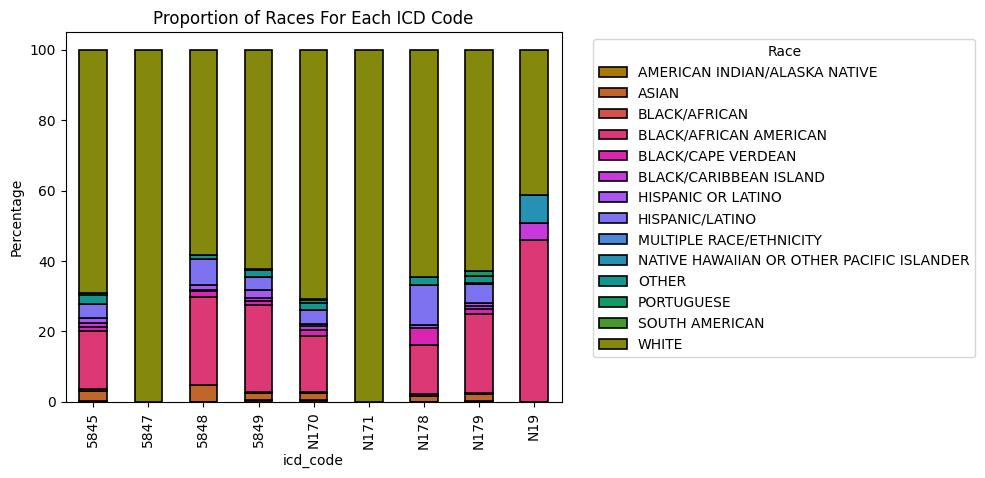
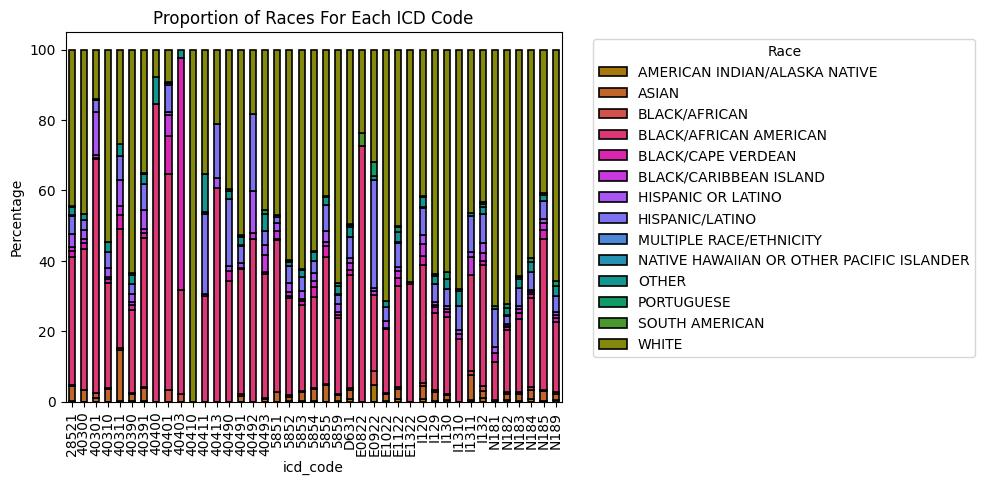
na

diff --git a/pkgs/data.py b/pkgs/data.py
@@ -1,9 +1,9 @@
 import pandas as pd
 from commons import (
-    diagnose_icd_file_path, patients_file_path, get_esrd_codes,
+    diagnose_icd_file_path, patients_file_path,
     figs_path, figs_path_gender_statistics, figs_path_age_statistics,
-    age_bins, figs_path_race_statistics, figs_path_race_stats, figs_path_icd_stats, get_target_esrd_codes,
-    get_target_ckd_codes, admissions_file_path
+    age_bins, figs_path_race_statistics, figs_path_race_stats, figs_path_icd_stats, esrd_codes,
+    ckd_codes, admissions_file_path
 )
 import matplotlib.pyplot as plt
 import os
@@ -11,6 +11,15 @@ import cmocean
 
 def analyze_esrd():
     patients_df, diagnoses_df = get_esrd_patients_and_diagnoses()
+    plot_icd_codes(diagnoses_df)
+
+    age_statistics(patients_df, diagnoses_df)
+    gender_statistics(patients_df, diagnoses_df)
+    race_statistics(patients_df, diagnoses_df)
+
+
+def analyze_ckd():
+    patients_df, diagnoses_df = get_ckd_patients_and_diagnoses()
     plot_icd_codes(diagnoses_df)
 
     age_statistics(patients_df, diagnoses_df)
@@ -147,8 +156,8 @@ def race_statistics(patients_df, diagnoses_df):
 def get_esrd_patients_and_diagnoses():
     diagnoses_df = pd.read_csv(diagnose_icd_file_path)
 
-    esrd_diagnose_df = filter_ckd_esrd_diagnose(diagnoses_df)
-    esrd_diagnose_df = esrd_diagnose_df[esrd_diagnose_df['icd_code'].isin(get_esrd_codes())]
+    esrd_diagnose_df = filter_diagnoses_for_patients_with_both_icd_codes(diagnoses_df, esrd_codes, ckd_codes)
+    esrd_diagnose_df = esrd_diagnose_df[esrd_diagnose_df['icd_code'].isin(esrd_codes)]
     print(
         f"number of ESRD subjects: {esrd_diagnose_df['subject_id'].nunique()}\n"
         f"percentage of subjects in dataset: {esrd_diagnose_df['subject_id'].nunique() / diagnoses_df['subject_id'].nunique() * 100:.3f}"
@@ -162,12 +171,33 @@ def get_esrd_patients_and_diagnoses():
     return patients_df, esrd_diagnose_df
 
 
-def filter_ckd_esrd_diagnose(df):
-    subject_ids = df.groupby('subject_id').filter(lambda x: any(x['icd_code'].isin(get_target_esrd_codes())) and any(x['icd_code'].isin(get_target_ckd_codes())))[
-        'subject_id'].unique()
-    print(f"number of patients who have esrd (progressed from ckd) are {len(subject_ids)}")
+def get_ckd_patients_and_diagnoses():
+    diagnoses_df = pd.read_csv(diagnose_icd_file_path)
+
+    ckd_diagnose_df = diagnoses_df[diagnoses_df['icd_code'].isin(ckd_codes)]
+    print(
+        f"number of CKD subjects: {ckd_diagnose_df['subject_id'].nunique()}\n"
+        f"percentage of subjects in dataset: {ckd_diagnose_df['subject_id'].nunique() / diagnoses_df['subject_id'].nunique() * 100:.3f}"
+    )
+
+    patients_df = pd.read_csv(patients_file_path)
+    patients_df = patients_df[patients_df['subject_id'].isin(ckd_diagnose_df['subject_id'].unique())]
+
+    print(f"number of subjects (for validation): {patients_df['subject_id'].nunique()}")
+
+    return patients_df, ckd_diagnose_df
+
+
+# filter records for subjects for which there are records with 'icd_code' in arr_1 and arr_2
+def filter_diagnoses_for_patients_with_both_icd_codes(df, arr_1, arr_2):
+    subject_ids = df.groupby('subject_id').filter(
+        lambda x:
+        any(x['icd_code'].isin(arr_1)) and
+        any(x['icd_code'].isin(arr_2))
+    )['subject_id'].unique()
     return df[df['subject_id'].isin(subject_ids)]
 
 
 if __name__ == '__main__':
     analyze_esrd()
+    analyze_ckd()

diff --git a/pkgs/commons.py b/pkgs/commons.py
@@ -16,11 +16,6 @@ admissions_file_path = f"{project_dir()}/data/mimic-iv-2.2/hosp/admissions.csv"
 
 
 # Codes extracted from d_icd_diagnoses.csv
-def get_esrd_codes():
-    return (icd_9_esrd_code_g1 + icd_9_esrd_code_g2 + icd_9_esrd_code_g3 +
-            icd_10_esrd_code_g1 + icd_10_esrd_code_g2 + icd_10_esrd_code_g3)
-
-
 icd_10_esrd_code_g1 = ['N17', 'N170', 'N171', 'N172', 'N178', 'N179']  # Desc: Acute kidney failure with ...
 icd_10_esrd_code_g2 = ['N19']  # Desc: Unspecified kidney failure ...
 icd_10_esrd_code_g3 = ['0904']  # Desc: Postpartum acute kidney failure
@@ -30,9 +25,7 @@ icd_9_esrd_code_g2 = ['6393']  # Desc: Kidney failure following abortion and ect
 icd_9_esrd_code_g3 = ['66930', '66932', '66934']  # Desc: Acute kidney failure following labor and delivery ...
 
 
-def get_target_esrd_codes():
-    return icd_10_esrd_code_g1 + icd_10_esrd_code_g2 + icd_9_esrd_code_g1
-
+esrd_codes = icd_10_esrd_code_g1 + icd_10_esrd_code_g2 + icd_9_esrd_code_g1
 
 icd_9_ckd_codes_g1 = ['28521']  # Anemia in chronic kidney disease
 icd_9_ckd_codes_g2 = ['40300', '40301', '40310', '40311', '40390', '40391']  # Hypertensive chronic kidney disease ...
@@ -48,9 +41,7 @@ icd_10_ckd_codes_g3 = ['I12', 'I120', 'I129', 'I13', 'I130', 'I131', 'I1310', 'I
 icd_10_ckd_codes_g4 = ['N18', 'N181', 'N182', 'N183', 'N184', 'N185', 'N189']  # Chronic kidney disease
 
 
-def get_target_ckd_codes():
-    return (icd_9_ckd_codes_g1 + icd_9_ckd_codes_g2 + icd_9_ckd_codes_g3 + icd_9_ckd_codes_g4
-            + icd_10_ckd_codes_g1 + icd_10_ckd_codes_g2 + icd_10_ckd_codes_g3 + icd_10_ckd_codes_g4)
+ckd_codes = (icd_9_ckd_codes_g1 + icd_9_ckd_codes_g2 + icd_9_ckd_codes_g3 + icd_9_ckd_codes_g4 + icd_10_ckd_codes_g1 + icd_10_ckd_codes_g2 + icd_10_ckd_codes_g3 + icd_10_ckd_codes_g4)
 
 
 """
